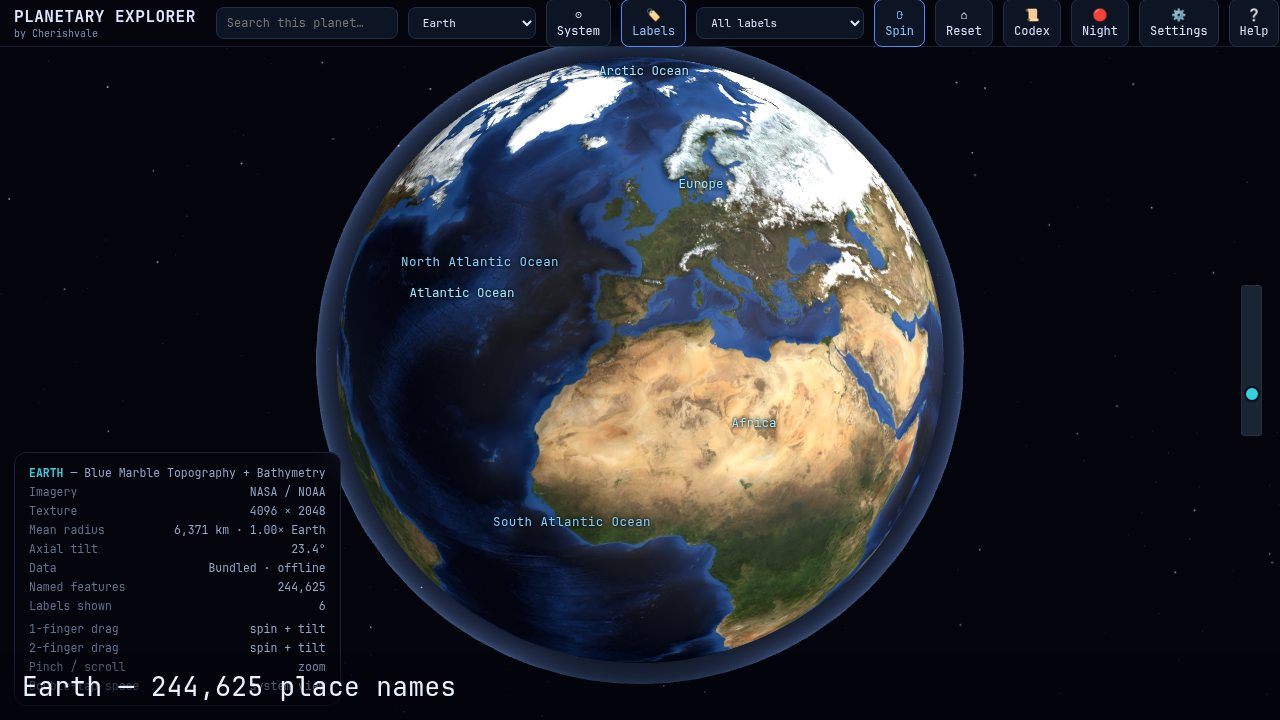
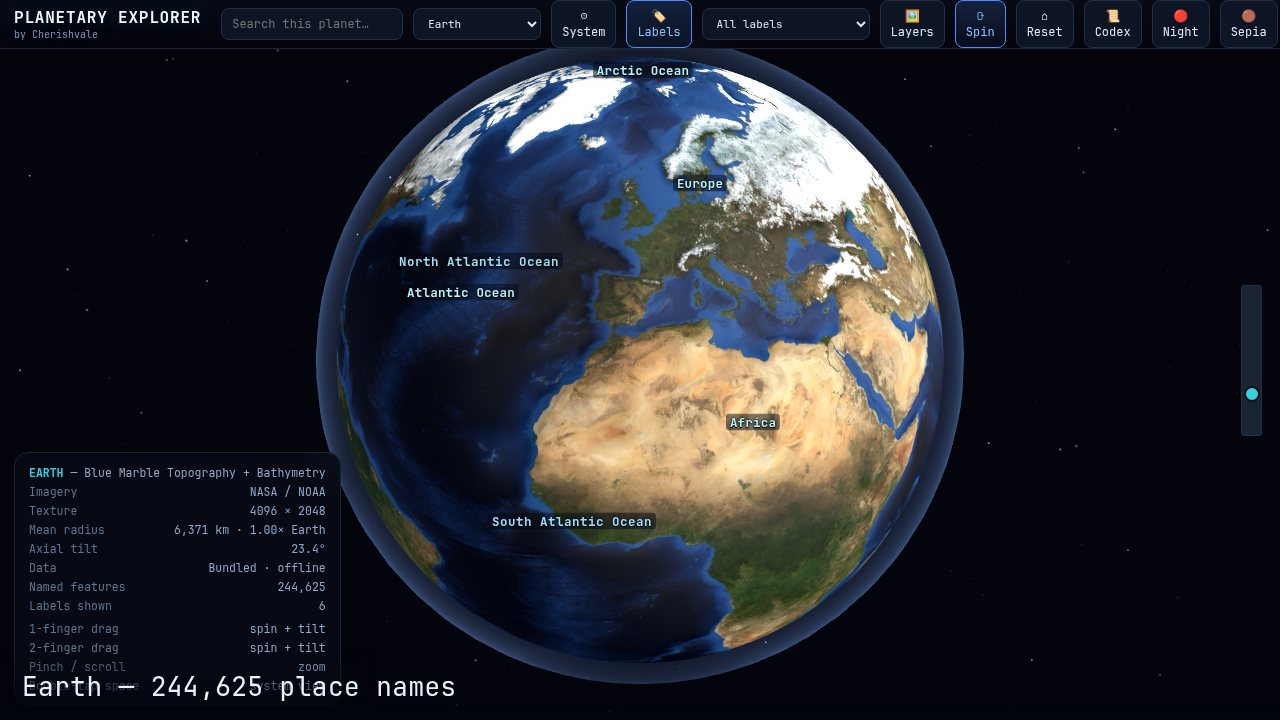
planetary-explorer: refresh store screenshots + add layers/pressure/exoplanets/teacher gallery

diff --git a/planetary-explorer.html b/planetary-explorer.html
@@ -186,6 +186,16 @@
   </div>
 </div>
 
+<div class="wrap" style="padding-top:34px">
+  <h2>Layers, weather and other worlds</h2>
+  <div class="grid" style="grid-template-columns:repeat(auto-fit,minmax(300px,1fr))">
+    <a class="shot" href="assets/screens/layers.jpg"><img src="assets/screens/layers.jpg" alt="The Layers panel with ozone, geology, pressure and label backdrop options" loading="lazy"><span><b>Layers.</b> One panel gathers the Earth overlays — a NASA total-column ozone map, plate boundaries and 1,571 volcanoes, a pressure-systems teaching schematic, and a label backdrop for readability. Public-domain data, bundled offline.</span></a>
+    <a class="shot" href="assets/screens/pressure.jpg"><img src="assets/screens/pressure.jpg" alt="Pressure systems teaching layer with isobars and wind arrows over the Atlantic" loading="lazy"><span><b>Weather, explained.</b> An optional classroom schematic of the semi-permanent highs and lows: idealized isobars and circulating surface winds, with the Coriolis sense made explicit. Clearly labelled a teaching model, not live data.</span></a>
+    <a class="shot" href="assets/screens/exoplanets.jpg"><img src="assets/screens/exoplanets.jpg" alt="Codex page for the exoplanet TRAPPIST-1 e" loading="lazy"><span><b>Other worlds.</b> Over 100 notable exoplanets from the NASA Exoplanet Archive — Proxima b, the TRAPPIST-1 family, the hottest and puffiest planets, and the historic firsts — each with a Codex page, searchable by planet or host-star name.</span></a>
+    <a class="shot" href="assets/screens/teacher.jpg"><img src="assets/screens/teacher.jpg" alt="Teacher mode lesson chooser with three grade levels" loading="lazy"><span><b>Teacher mode.</b> Guided lessons at three levels (Earth Science, High School, College), an offline quiz, and printable worksheets — built for projectors, tablets and no Wi-Fi.</span></a>
+  </div>
+</div>
+
 <div class="wrap" id="screens">
   <h2>Every world, up close</h2>
   <h3 class="sys">Mercury</h3>
